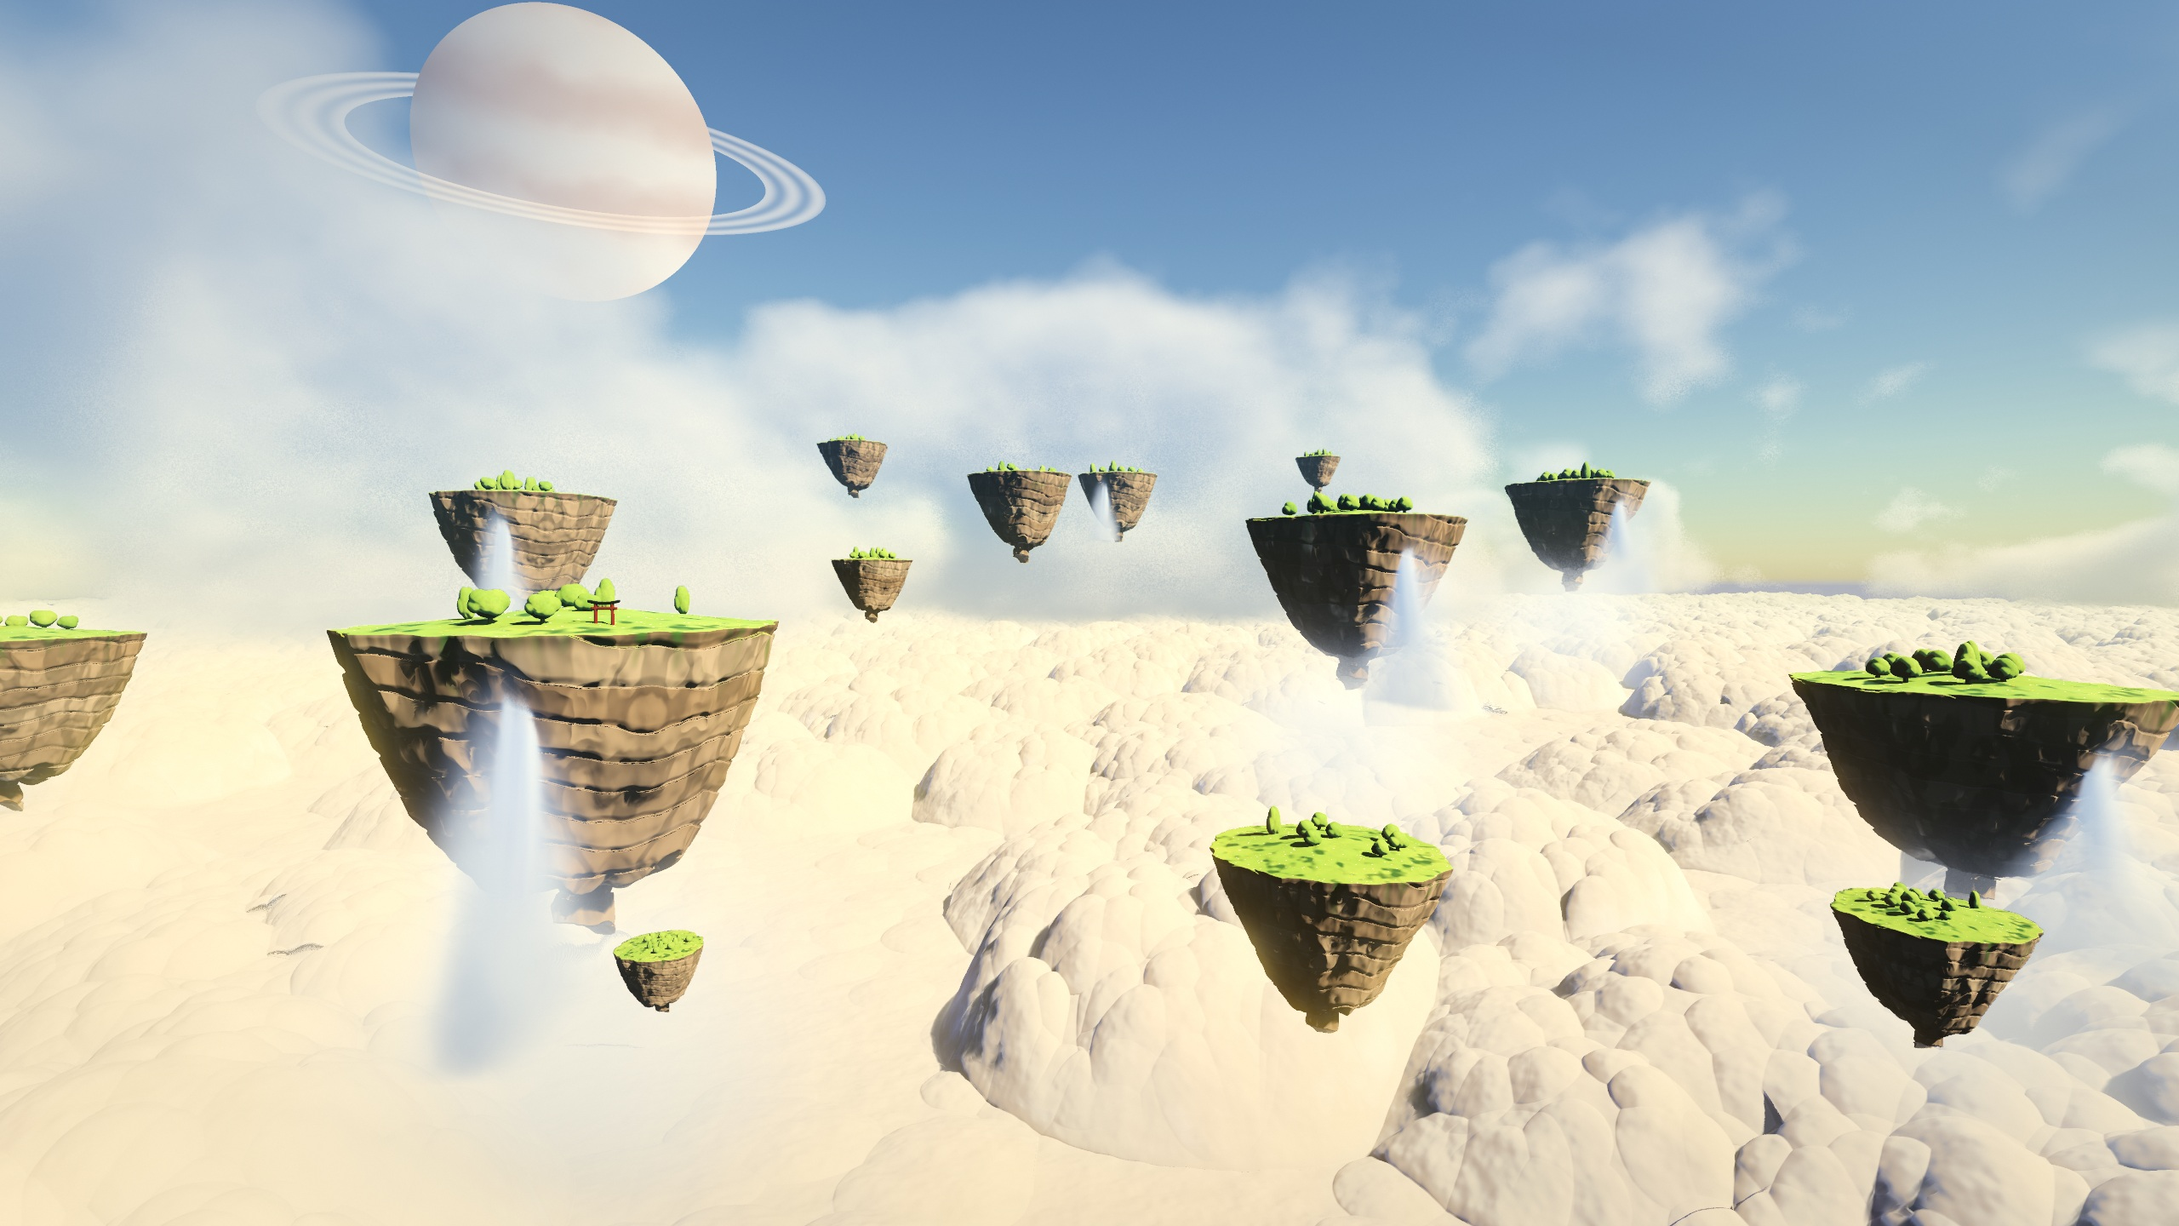
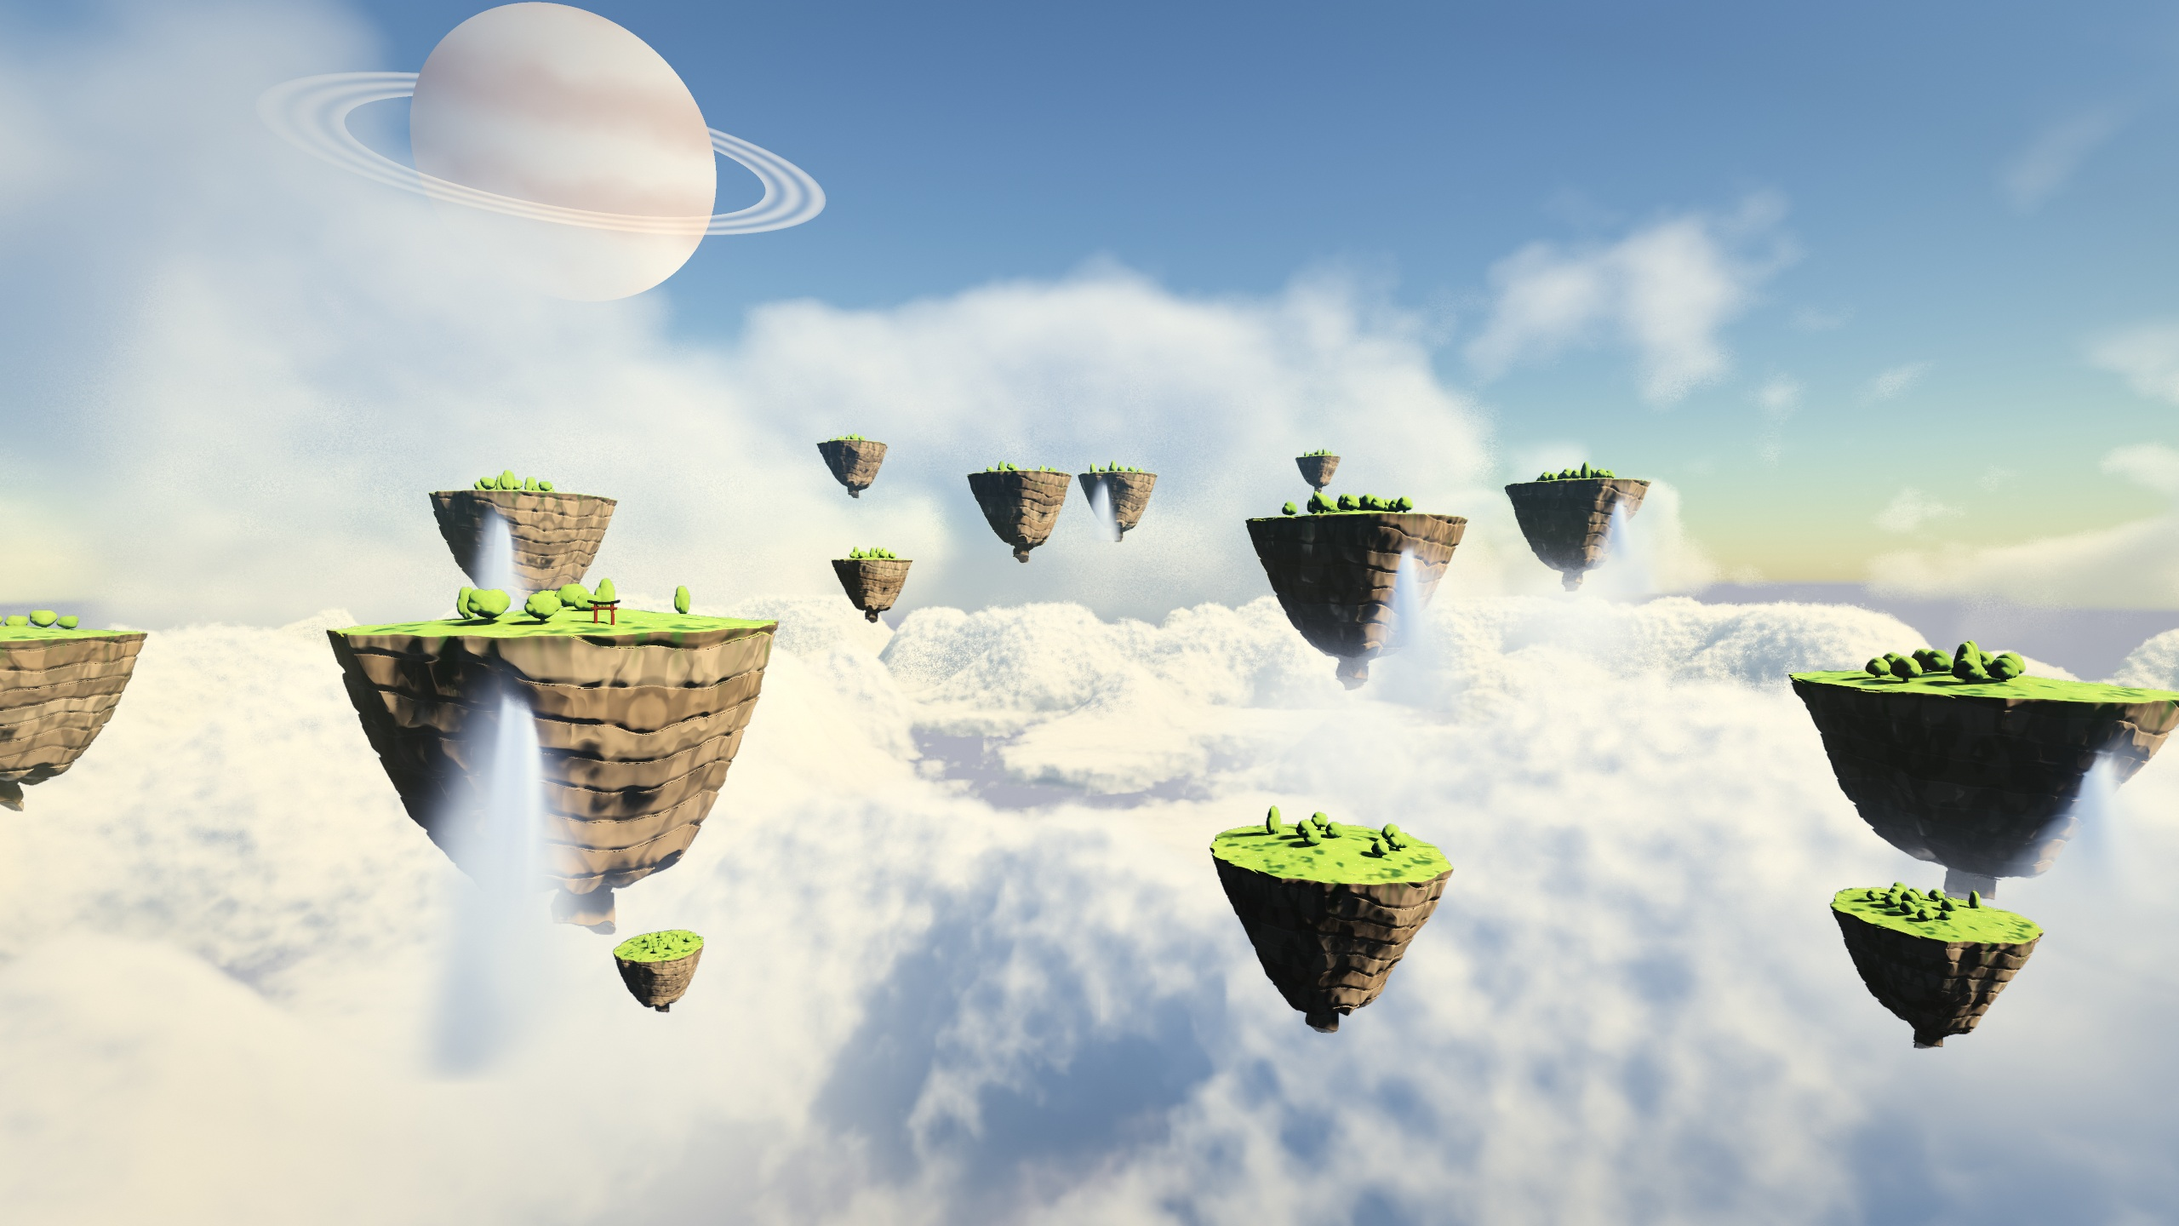
app, backgrounds: Manga's sea of clouds is volumetric, after Guerrilla's Nubis (a weather map for the towers and their height, a cumulus height profile, Perlin-Worley shapes eroded by a finer Worley noise, wispy at the bases; lit by the Volume renderer: Beer's law, powder, two phase lobes, the sky f

diff --git a/app/tools/sprites/legend_scene.py b/app/tools/sprites/legend_scene.py
@@ -136,6 +136,109 @@ def in_village(x, z):
     return torch.sqrt((x - SPUR[0]) ** 2 + (z - SPUR[1]) ** 2) < 66
 
 
+def forest_mask(x, z):
+    """Where the forest grows: woods and glades, not on the crag's rocky sides, the village or the river."""
+    dens = sstep(0.18, 0.3, fbm(P2(x * 0.006, z * 0.006, 11), 3))
+    rs = torch.sqrt((x - SPUR[0]) ** 2 + ((z - SPUR[1]) * 1.2) ** 2) / SPUR[2]
+    rs = rs / (1 + 0.4 * (fbm(P2(x * 0.012, z * 0.012, 6), 3) - 0.5))
+    cliffs = 1 - sstep(0.7, 0.76, rs) * sstep(0.95, 0.88, rs)
+    rx = x - (120 + 60 * torch.sin(z * 0.006))
+    return sstep(12, 20, rx.abs()) * dens * cliffs * (1 - in_village(x, z).float()) * sstep(-45, -80, z) * (z > cliff_z(x) + 8).float()
+
+
+TREE_CELL = 11.0
+
+
+def trees(p):
+    """The forest as real trees (the 2×2 nearest cells of a jittered grid): broadleaves, a trunk and
+    a crown of foliage clumps where the main branches end (placed by a golden-angle spiral on the
+    crown's ellipsoid, each tree its own), the clumps' edges leafy; conifers, a trunk and stacked
+    tiers of drooping branches. Returns the distance (a few units Lipschitz-safe)."""
+    x, y, z = p[:, 0], p[:, 1], p[:, 2]
+    d = torch.full_like(x, 1e9)
+    i0, k0 = torch.floor(x / TREE_CELL - 0.5), torch.floor(z / TREE_CELL - 0.5)
+    pfir = 0.2 + 0.5 * sstep(-160, -70, z) + 0.3 * sstep(0.5, 0.7, fbm(P2(x * 0.004, z * 0.004, 13), 2))
+    for di in (0, 1):
+        for dk in (0, 1):
+            i, k = i0 + di, k0 + dk
+            idv = torch.stack([i, k, i * 0 + 5], 1)
+            cx = (i + 0.5 + (hash3(idv) - 0.5) * 0.6) * TREE_CELL
+            cz = (k + 0.5 + (hash3(idv + 1.3) - 0.5) * 0.6) * TREE_CELL
+            on = (forest_mask(cx, cz) > 0.5) & (hash3(idv + 6.6) < 0.92)
+            g = ground_h(cx, cz)
+            isf = hash3(idv + 8.1) < pfir
+            rad = (4.5 + 3.0 * hash3(idv + 4.4)) * torch.where(isf, 0.7, 1.0)
+            H = rad * (1.9 + 0.5 * hash3(idv + 2.9)) * torch.where(isf, 2.2, 1.0)
+            lx, ly, lz = x - cx, y - g, z - cz
+            r = torch.sqrt(lx * lx + lz * lz)
+            trunk = torch.maximum(r - 0.06 * rad * (1.6 - ly / H).clamp(0.6, 1.6), torch.maximum(ly - H * 0.7, -ly - 1))
+            # broadleaf: clumps on a spiral over the crown's ellipsoid (centre at 0.62 H)
+            ccy = H * 0.62
+            seed = hash3(idv + 3.3) * 6.28
+            bl = torch.full_like(x, 1e9)
+            for j in range(7):
+                f = (j + 0.5) / 7
+                el = 1.2 * (f - 0.35)                                  # from a little below the middle to the top
+                az = seed + j * 2.39996                                 # golden angle
+                cr = rad * (0.62 * math.cos(el))
+                px = cx + cr * torch.cos(az)
+                pz = cz + cr * torch.sin(az)
+                py = g + ccy + H * 0.3 * math.sin(el)
+                rr = rad * (0.42 + 0.12 * hash3(idv + 9.0 + j))
+                bl = torch.minimum(bl, torch.sqrt((x - px) ** 2 + (y - py) ** 2 * 1.2 + (z - pz) ** 2) - rr)
+            core = torch.sqrt(lx * lx + ((ly - ccy) / 0.8) ** 2 + lz * lz) - rad * 0.55
+            bl = torch.minimum(bl, core)
+            # conifer: a spire of drooping tiers
+            u = (ly / H).clamp(0, 1)
+            tier = (ly / (H * 0.12)) - torch.floor(ly / (H * 0.12))
+            cone_r = rad * (1 - u) * (0.75 + 0.35 * tier) * (ly > H * 0.15).float()
+            fir = torch.maximum(r - cone_r, torch.maximum(ly - H, H * 0.15 - ly)) * 0.7
+            crown = torch.where(isf, fir, bl)
+            tree = torch.minimum(trunk, crown)
+            d = torch.where(on, torch.minimum(d, tree), d)
+    # leafy edges: small bumps and holes on the crowns
+    leaf = 0.55 * (fbm(p * 0.6, 3) - 0.5) + 0.25 * (fbm(p * 2.2 + 4, 2) - 0.5)
+    d = d - leaf
+    # a safe bound where there is no tree near
+    return torch.minimum(d * 0.6, torch.full_like(d, TREE_CELL))
+
+
+def tree_mat():
+    def pat(pl, pw, n):
+        x, y, z = pw[:, 0], pw[:, 1], pw[:, 2]
+        i, k = torch.floor(x / TREE_CELL - 0.5), torch.floor(z / TREE_CELL - 0.5)
+        # the nearest tree's key (by the 4 candidate centres)
+        best = torch.full_like(x, 1e9)
+        key = torch.zeros_like(x)
+        fir = torch.zeros_like(x)
+        gref = torch.zeros_like(x)
+        pfir = 0.2 + 0.5 * sstep(-160, -70, z) + 0.3 * sstep(0.5, 0.7, fbm(P2(x * 0.004, z * 0.004, 13), 2))
+        for di in (0, 1):
+            for dk in (0, 1):
+                idv = torch.stack([i + di, k + dk, i * 0 + 5], 1)
+                cx = (i + di + 0.5 + (hash3(idv) - 0.5) * 0.6) * TREE_CELL
+                cz = (k + dk + 0.5 + (hash3(idv + 1.3) - 0.5) * 0.6) * TREE_CELL
+                dd = (x - cx) ** 2 + (z - cz) ** 2
+                m = dd < best
+                best = torch.where(m, dd, best)
+                key = torch.where(m, hash3(idv + 9.7), key)
+                fir = torch.where(m, (hash3(idv + 8.1) < pfir).float(), fir)
+                gref = torch.where(m, ground_h(cx, cz), gref)
+        hgt = y - gref
+        bark = srgb("#3a2e24") * (0.7 + 0.4 * fbm(pw * 3, 2))[:, None]
+        leafc = autumn(key, fbm(pw * 0.003, 2))
+        leafc = torch.lerp(leafc, srgb("#5a5230"), 0.2)
+        leafc = torch.lerp(leafc, autumn((key + 0.37) % 1.0, fbm(pw * 0.003, 2)), (0.3 * sstep(0.6, 0.75, fbm(pw * 0.5 + 3, 2)))[:, None])
+        firc = torch.lerp(srgb("#16261a"), srgb("#2a3a22"), key[:, None])
+        a = torch.lerp(leafc, firc, fir[:, None])
+        # clumps of leaves in light and shade, the inner crown darker
+        a = a * (0.5 + 0.7 * fbm(pw * 1.3, 3))[:, None] * (0.85 + 0.3 * fbm(pw * 5.0, 2))[:, None]
+        trunkish = (hgt < 2.5).float() * (1 - fir) + 0.0
+        a = torch.lerp(a, bark, (trunkish * sstep(0.3, -0.3, n[:, 1].abs() - 0.5))[:, None])
+        return {"albedo": a, "rough": torch.full_like(x, 0.85)}
+    return Mat("#4a5a26", rough=0.85, sss=0.45, pattern=pat)
+
+
 def canopy(x, z):
     """The forest: crowns over the ground, on the 2×2 nearest cells of a jittered grid; returns the
     canopy's height over the ground and each point's tree (a key for its colour, and fir or not)."""
@@ -161,15 +264,21 @@ def canopy(x, z):
             rad = (5.5 + 3.5 * hash3(idv + 4.4)) * (1 - 0.3 * isf)
             H = rad * (1.4 + 0.4 * hash3(idv + 2.9)) * (1 + 1.6 * isf)
             u = torch.sqrt((x - cx) ** 2 + (z - cz) ** 2) / rad
-            dome = (1 - u * u).clamp_min(0) ** 0.6
-            cone = (1 - u).clamp_min(0) ** 1.1
+            # broadleaves: a dome broken into lobes (the big limbs' clumps), different for each tree
+            lob = fbm(P2((x - cx) / 2.4, (z - cz) / 2.4, hash3(idv + 3.3) * 40), 3)
+            ul = u * (1 + 0.35 * (lob - 0.5))
+            dome = (1 - ul * ul).clamp_min(0) ** 0.55 * (0.82 + 0.36 * lob)
+            # conifers: a spire of drooping tiers (each whorl a ledge), ragged
+            w = (1 - u).clamp_min(0)
+            tiers = w - 0.11 * (w * 7 - torch.floor(w * 7)) * sstep(0.05, 0.25, w)
+            cone = tiers.clamp_min(0) ** 1.05
             h = H * torch.lerp(dome, cone, isf) * (hash3(idv + 6.6) < 0.9).float()
             win = h > c
             c = torch.where(win, h, c)
             key = torch.where(win, hash3(idv + 9.7), key)
             fir = torch.where(win, isf, fir)
     # leaves and needles break the outline
-    c = c * (0.72 + 0.5 * fbm(P2(x * 0.7, z * 0.7, 4), 3))
+    c = c * (0.88 + 0.16 * fbm(P2(x * 0.9, z * 0.9, 4), 3) + 0.08 * (fbm(P2(x * 3.0, z * 3.0, 9), 2) - 0.5))
     return c * mask, key, fir
 
 
@@ -187,15 +296,14 @@ def spur_rock(p):
 
 def land(p):
     x, z = p[:, 0], p[:, 2]
-    c, _, _ = canopy(x, z)
-    return (p[:, 1] - ground_h(x, z) - c) * 0.3
+    return (p[:, 1] - ground_h(x, z)) * 0.3
 
 
 def land_mat():
     def pat(pl, pw, n):
         x, y, z = pw[:, 0], pw[:, 1], pw[:, 2]
         g = ground_h(x, z)
-        c, key, fir = canopy(x, z)
+        c, key, fir = torch.zeros_like(x), torch.zeros_like(x), torch.zeros_like(x)     # the trees are their own part now
         steep = (1 - n[:, 1]).clamp(0, 1)
         grass = torch.lerp(srgb("#4a5a26"), srgb("#8a7a3a"), fbm(pw * 0.03, 3)[:, None]) * (0.7 + 0.4 * fbm(pw * 0.4, 2))[:, None]
         rock = torch.lerp(srgb("#8a8070"), srgb("#c8bca8"), fbm(pw * 0.05, 3)[:, None])
@@ -204,9 +312,13 @@ def land_mat():
         a = torch.lerp(a, srgb("#8a5a2a"), (0.4 * sstep(0.55, 0.7, fbm(pw * 0.08, 3)))[:, None])
         # the trees: the autumn palette, firs dark, the crowns lighter at the top (sky light, sun)
         top = sstep(0.2, 1.0, (y - g) / (c + 1e-3))
-        leaf = autumn(key, fbm(pw * 0.003, 2)) * (0.65 + 0.5 * fbm(pw * 0.7, 2))[:, None]
+        leaf = autumn(key, fbm(pw * 0.003, 2))
+        leaf = torch.lerp(leaf, srgb("#5a5230"), 0.22)                     # less saturated: real autumn woods
+        leaf = leaf * (0.55 + 0.7 * fbm(pw * 1.1, 3))[:, None] * (0.85 + 0.3 * fbm(pw * 4.0, 2))[:, None]
+        # a few leaves turned in an otherwise green crown, and the reverse
+        leaf = torch.lerp(leaf, autumn((key + 0.37) % 1.0, fbm(pw * 0.003, 2)), (0.35 * sstep(0.6, 0.75, fbm(pw * 0.5 + 3, 2)))[:, None])
         firc = torch.lerp(srgb("#16261a"), srgb("#2a3a22"), key[:, None]) * (0.7 + 0.5 * fbm(pw * 0.9, 2))[:, None]
-        clump = 0.6 + 0.6 * fbm(pw * 1.6, 2)                    # clumps of leaves in light and shade
+        clump = 0.55 + 0.7 * fbm(pw * 1.6, 3)                   # clumps of leaves in light and shade
         tree = torch.lerp(leaf, firc, fir[:, None]) * ((0.45 + 0.75 * top) * clump)[:, None]
         a = torch.lerp(a, tree, (sstep(0.6, 1.6, y - g) * sstep(0.3, 1.0, c))[:, None])
         return {"albedo": a}
@@ -379,6 +491,7 @@ def cascade(p):
 def scene():
     sc = Scene()
     sc.add(land, land_mat())
+    sc.add(trees, tree_mat())
     sc.add(cliff, cliff_mat())
     sc.add(spur_rock, cliff_mat())
     sc.add(river, water_mat())

diff --git a/app/tools/sprites/manga_scene.py b/app/tools/sprites/manga_scene.py
@@ -243,7 +243,7 @@ def scene():
     return sc
 
 
-def puffs(x, z, cell, seed, amp, keep=1.0):
+def puffs(x, z, cell, seed, amp, keep=1.0, soft=0.0):
     """A heightfield of rounded cloud heads on a jittered grid (the 2×2 nearest cells)."""
     acc = torch.zeros_like(x)
     i0, k0 = torch.floor(x / cell - 0.5), torch.floor(z / cell - 0.5)
@@ -256,23 +256,26 @@ def puffs(x, z, cell, seed, amp, keep=1.0):
             rr = cell * (0.55 + 0.35 * hash3(idv + 2.1))
             u = ((x - cx) ** 2 + (z - cz) ** 2) / (rr * rr)
             on = (hash3(idv + 5.7) < keep).float()
-            hi = on * amp * (0.4 + 0.6 * hash3(idv + 3.3)) * (1 - u).clamp_min(0) ** 0.75
-            acc = torch.maximum(acc, hi)
+            w = (1 - u).clamp_min(0)
+            hi = on * amp * (0.4 + 0.6 * hash3(idv + 3.3)) * w * (1.7 - 0.7 * w)      # a round dome, finite slope at its foot
+            acc = torch.logaddexp(acc / soft, hi / soft) * soft if soft > 0 else torch.maximum(acc, hi)
     return acc
 
 
 def cloud_top(x, z):
     big = fbm(torch.stack([x * 0.0006, z * 0.0006, x * 0 + 4], 1), 3)
-    heads = puffs(x, z, 320.0, 1.0, 120, 0.7)
-    on_head = sstep(10, 60, heads)                       # the smaller puffs grow on the heads, the valleys stay smooth
-    return -330 + 60 * sstep(0.3, 0.7, big) + heads + on_head * (puffs(x, z, 110.0, 2.0, 40) + puffs(x, z, 38.0, 3.0, 12)) \
-        + (1 - on_head) * puffs(x, z, 70.0, 4.0, 12, 0.6)
+    # big rounded towers, a few domes swelling on them, the deck between them smooth (no small puffs:
+    # anime cloud seas are drawn in big soft masses)
+    heads = puffs(x, z, 300.0, 1.0, 210, 0.7, soft=14.0)
+    on_head = sstep(20, 100, heads)
+    return -330 + 60 * sstep(0.3, 0.7, big) + heads + on_head * puffs(x, z, 120.0, 2.0, 70, 0.8, soft=8.0) \
+        + 18 * (fbm(torch.stack([x * 0.004, z * 0.004, x * 0 + 2], 1), 3) - 0.5)
 
 
 def cloud_sea(p):
     x, z = p[:, 0], p[:, 2]
-    top = cloud_top(x, z) + 5 * fbm(p * 0.05, 3)
-    return (p[:, 1] - top) * 0.3
+    top = cloud_top(x, z) + 3 * fbm(p * 0.02, 2)
+    return (p[:, 1] - top) * 0.2
 
 
 def cloud_mat():
@@ -281,10 +284,12 @@ def cloud_mat():
     def pat(pl, pw, n):
         nl = (n * L).sum(-1)
         # the anime look: white where the sun strikes, a soft lavender-blue in the shade, warm at the edge of light
-        lit = sstep(-0.15, 0.35, nl)
-        a = torch.lerp(srgb("#8a9cd0"), srgb("#ffffff"), lit[:, None])
-        a = torch.lerp(a, srgb("#ffe8d0"), (sstep(-0.15, 0.05, nl) * sstep(0.3, 0.05, nl) * 0.6)[:, None])
-        return {"albedo": a * (0.72 + 0.08 * fbm(pw * 0.05, 2))[:, None]}
+        lit = sstep(-0.2, 0.45, nl)                      # a soft gradient, two tones blended
+        a = torch.lerp(srgb("#7f90cc"), srgb("#ffffff"), lit[:, None])
+        a = torch.lerp(a, srgb("#ffe8d0"), (sstep(-0.25, 0.0, nl) * sstep(0.35, 0.05, nl) * 0.5)[:, None])
+        deep = sstep(60, 0, pw[:, 1] - (-330 + 20))      # the deck between the towers: in their shade
+        a = torch.lerp(a, srgb("#8090c8"), (0.35 * deep)[:, None])
+        return {"albedo": a * 0.74}
     return Mat("#ffffff", rough=1.0, sss=0.5, pattern=pat)
 
 
@@ -300,7 +305,68 @@ def fluff(p):
     x, y, z = p[:, 0], p[:, 1], p[:, 2]
     above = y - cloud_top(x, z)
     n = fbm(p * 0.04 + 2, 4)
-    return torch.exp(-(above.clamp_min(0) / 6.0)) * (above > -4).float() * ((n - 0.35) * 2).clamp_min(0) * 0.012
+    return torch.exp(-(above.clamp_min(0) / 12.0)) * (above > -4).float() * ((n - 0.3) * 2).clamp_min(0) * 0.02
+
+
+# ─── the sea of clouds: volumetric, after Guerrilla's Nubis (Schneider 2015-2022) ───
+# A weather map gives the coverage and the height of each mass; a height profile
+# makes cumulus (flat bases, rounded tops); a Perlin-Worley noise gives the
+# billowed shape, and a finer Worley noise erodes the edges (more at the tops,
+# wispy at the bases). Lit by the Volume renderer: Beer's law towards the sun,
+# the powder term (dark edges facing the light), two phase lobes (the silver
+# lining), the sky's light from above.
+def worley(p):
+    """1 − F1 of a jittered grid (the 2×2×2 nearest cells): round cells, bright at their centres."""
+    c0 = torch.floor(p - 0.5)
+    best = torch.full_like(p[:, 0], 9.0)
+    for dx in (0, 1):
+        for dy in (0, 1):
+            for dz in (0, 1):
+                c = c0 + vec(dx, dy, dz)
+                f = c + torch.stack([hash3(c), hash3(c + 3.1), hash3(c + 7.7)], 1)
+                best = torch.minimum(best, ((p - f) ** 2).sum(-1))
+    return (1 - torch.sqrt(best)).clamp(0, 1)
+
+
+def worley_fbm(p):
+    return 0.625 * worley(p) + 0.25 * worley(p * 2.03 + 5.1) + 0.125 * worley(p * 4.1 + 9.3)
+
+
+def remap(v, lo, hi, a, b):
+    return a + (v - lo) / (hi - lo).clamp_min(1e-4) * (b - a) if torch.is_tensor(hi) or torch.is_tensor(lo) else a + (v - lo) / (hi - lo) * (b - a)
+
+
+CLOUD_BASE = -390.0
+
+
+def cloud_density(p):
+    x, y, z = p[:, 0], p[:, 1], p[:, 2]
+    out = torch.zeros_like(x)
+    # the weather map: where the towers stand and how high (a deck everywhere below them)
+    wm = fbm(torch.stack([x * 0.0014, z * 0.0014, x * 0 + 1.5], 1), 3)
+    tower = sstep(0.42, 0.68, wm)
+    top = CLOUD_BASE + 120 + 340 * tower
+    h = (y - CLOUD_BASE) / (top - CLOUD_BASE)
+    grad = sstep(0.0, 0.12, h) * sstep(1.0, 0.55, h)                 # flat base, rounded top
+    cov = 0.4 + 0.45 * tower                                         # gaps in the deck, dense towers
+    live = ((grad > 0.01) & (h < 1)).nonzero().squeeze(1)
+    if live.numel() == 0:
+        return out
+    q = p[live]
+    # the shape: low-frequency Perlin noise made billowy by a Worley noise (Perlin-Worley)
+    per = fbm(q * 0.0032 + vec(2, 0, 5), 4)
+    wor = worley_fbm(q * 0.006)
+    pw = remap(per, wor - 1, torch.ones_like(per), 0.0, 1.0).clamp(0, 1)
+    d = remap(pw * grad[live], 1 - cov[live], torch.ones_like(pw), 0.0, 1.0).clamp(0, 1)
+    k = (d > 0).nonzero().squeeze(1)
+    if k.numel():
+        qq = q[k]
+        hh = h[live][k]
+        det = worley_fbm(qq * 0.03 + vec(1.3, 0, 2.1))
+        det = torch.lerp(1 - det, det, sstep(0.1, 0.5, hh))             # wispy at the base, billowed higher
+        d[k] = remap(d[k], det * 0.42, torch.ones_like(det), 0.0, 1.0).clamp(0, 1)
+    out[live] = d * 0.25
+    return out
 
 
 def sea_of_clouds(p):
@@ -367,14 +433,14 @@ def render(W=2560, H=1440, ss=1):
     atmo = Atmosphere(sun, sun_power=22.0, mie=6e-6, mie_g=0.8, ground="#d8dce8", rayleigh=1.25)
     cam = Camera((0.0, 60.0, 0.0), (0, 40, -600), fov=62)
     sc = scene()
-    sc.add(cloud_sea, cloud_mat())
-    vols = [Volume(fluff, (-2500, -340, -4000), (2500, -100, 100), albedo="#ffffff", g=0.6, steps=128, light_steps=3, light_dist=40, ambient=1.0),
+    vols = [Volume(cloud_density, (-3500, CLOUD_BASE, -6000), (3500, CLOUD_BASE + 470, 300), albedo="#ffffff", g=0.6,
+                   steps=192, light_steps=6, light_dist=260, ambient=0.7),
             Volume(towers, (-12000, -200, -14000), (12000, 1800, -2500), albedo="#ffffff", g=0.6, steps=40, light_steps=5, light_dist=700),
             Volume(spray, (-500, -250, -1200), (600, 120, -200), albedo="#ffffff", g=0.5, steps=40, light_steps=2, light_dist=40)]
     for fx in FALLS:
         lo, hi = fall_box(fx)
         vols.append(Volume(falls_density(fx), lo, hi, albedo="#f4faff", g=0.4, steps=64, light_steps=3, light_dist=20, ambient=1.2))
-    img = render_view(sc, W, H, cam, sky_planet(atmo.sky), sun_dir=sun, atmo=atmo, aerial=(0.00008, 0.001, 0.0), sun_soft=0.03,
+    img = render_view(sc, W, H, cam, sky_planet(atmo.sky), sun_dir=sun, atmo=atmo, aerial=(0.00008, 0.001, 0.0), sun_soft=0.12,
                       exposure=0.75, steps=480, tmax=16000, ao_scale=2.0, bloom=0.7, dof=None, vignette=0.2, grain=0.008,
                       grade=("#3a6ad0", "#fffaf2"), ss=ss, volumes=[] if NOVOL else vols)
     return img
